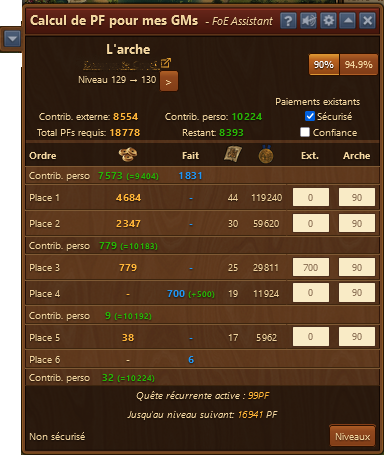
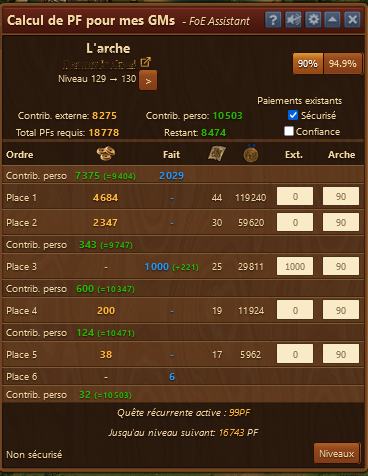
[Feature] calculatrice GM interne

diff --git a/fr/module/calculatrice_gm_interne/README.md b/fr/module/calculatrice_gm_interne/README.md
@@ -19,15 +19,15 @@ La calculatrice GM interne est structurée comme suit de haut en bas :
 * **Contrib. perso :** Combien de PF vous devez payer au total
 * **Total PFs requis :** La somme du mécènat et de votre propre contribution
 * **Restant :** La somme que le propriétaire doite encore payer
-   * **Sécurisé** - Avec cette coche, on ne tient pas compte des paiements déjà fait pour sécuriser les places (voir FAQ)
-   * **Confiance** - Avec cette coche, on part du principe que ceux qui ont payé un montant ne feront pas de sur-enchère (voir FAQ)
+   * **Sécurisé** - Avec cette coche, on ne tient pas compte des paiements déjà fait pour sécuriser les places ([voir FAQ](#securisé))
+   * **Confiance** - Avec cette coche, on part du principe que ceux qui ont payé un montant ne feront pas de sur-enchère ([voir FAQ](#confiance))
 * Tableau :
  * **Ordre** - Affiche dans quel ordre ce qui doit être payé.  Dans l'exmple, le propriétaire doit commencer par payer 7579 PF pour sécuriser la P1 et la P2.
  * Le nombre de PF qui doivent être payée
  * **Fait** - Combien de PF ont déjà été posé
  * Le nombre de plans reçus par le mécène en fonction du bonus arche
  * Le nombre de médailles reçues par le mécène en fonction du bonus arche
- * **Ext.** - Permet de simuler un payment externe et de voir son influence sur les places ([voir FAQ](#securisé))
+ * **Ext.** - Permet de simuler un payment externe et de voir son influence sur les places ([voir FAQ](#ext))
  * **Arche** - Bonus arche (%) de chaque place. Celui-ci peut être changé individuellement
  * **Quête récurrente active :** Indique si une quête récurrente a été terminée
  * **Jusqu'au niveau suivant :** Le nombre de PF nécessaire pour finir le Grand Monument
@@ -103,3 +103,30 @@ Lorsque la première  propre contribution, la 1ère place et la 2ème place ont 
 ## FAQ
 
 <a name="securisé"></a>securisé
+
+Avec la coche **sécurisé**, les places sont d'abors sécurisées avant d'être données au mécénat. Si des montants sont déjà posé, ils ont les places dont le montant posé permet de les avoir sans sécurisation supplémentaire.
+
+Dans cet exemple, il faut encore posé 362 PF pour sécuriser la Place 1 et la Place 2.
+
+![coche sécurisé](./.images/screenshot11.png)
+
+<a name="confiance"></a>confiance
+
+Avec la coche **confiance**, on part du principe que les montants posés resteront les mêmes. Car posé par des personnes de confiance. Dans ce cas, les excédents posés, servent à réduire le coût de la sécurisation de la Place 1 et Place 2.
+
+Dans cet exemple, il faut seulement 237 PF (au lieu de 362 en dessus) pour sécuriser Place 1 et Place 2. A noter, qu'on pose à la fin le reste des PF. Cela peut quand même rendre le GM snippable comme dans cet exemple. Il reste 150 PF à poser et la Place 3 n'est qu'à 125.
+
+![coche confiance](./.images/screenshot13.png)
+
+A titre d'exemple, voici encore la même image avec les deux coches **seécurisé** et ** confiance** et ainsi que sans coche du tout.
+
+![coche confiance](./.images/screenshot10.png)  ![coche confiance](./.images/screenshot12.png)
+
+
+<a name="Ext"></a>Ext.
+
+Si quelqu'un vous doit des PF, vous pouvez introduire le montant total qu'il va vous verser et voir à combien vous devez securiser la place afin de ne pas mettre en danger votre GM.
+
+Dans l'exemple, on va vous payer 1000 PF pour la Place 3 ce qui fait que la P3 ne doit plus qu'être sécurisée à 343 PF au lieu de 779.
+
+![Montant Ext.](./.images/screenshot02.png)   ![Sans Ext.](./.images/screenshot.png)
